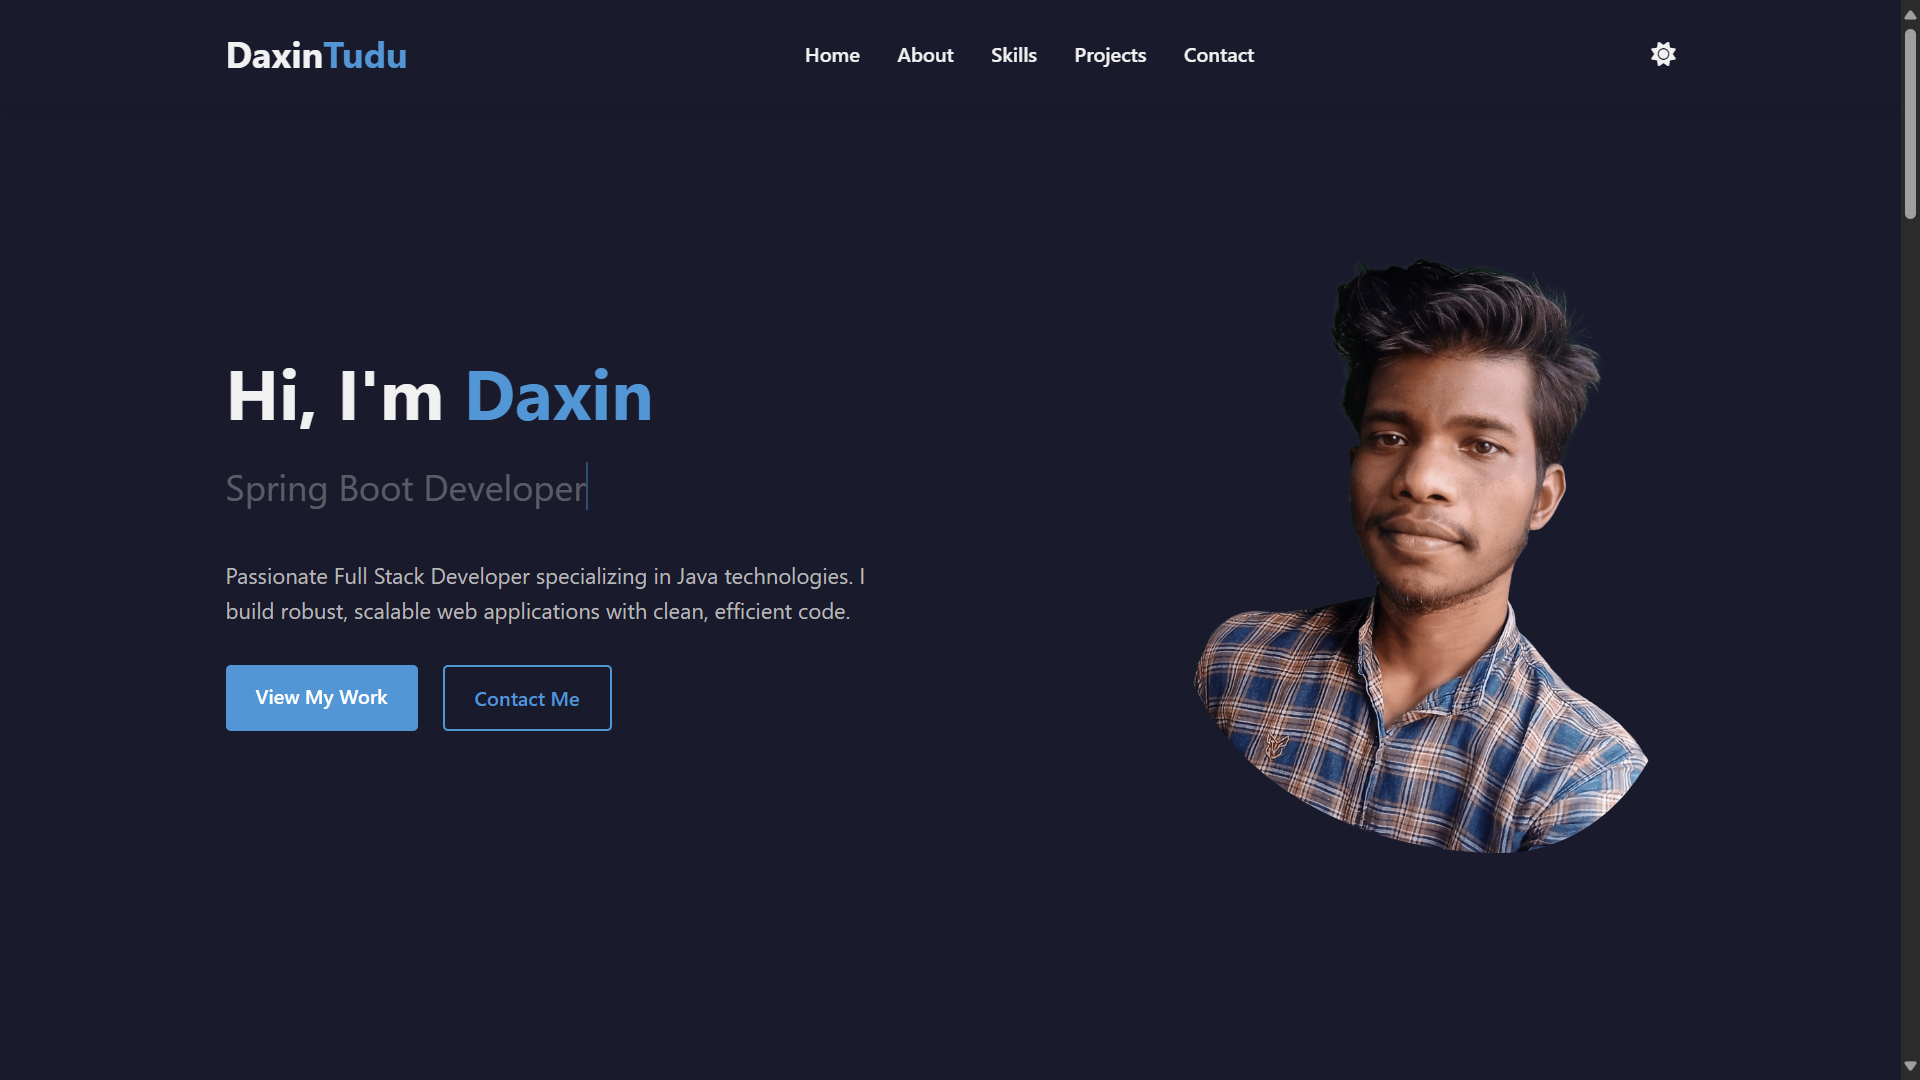
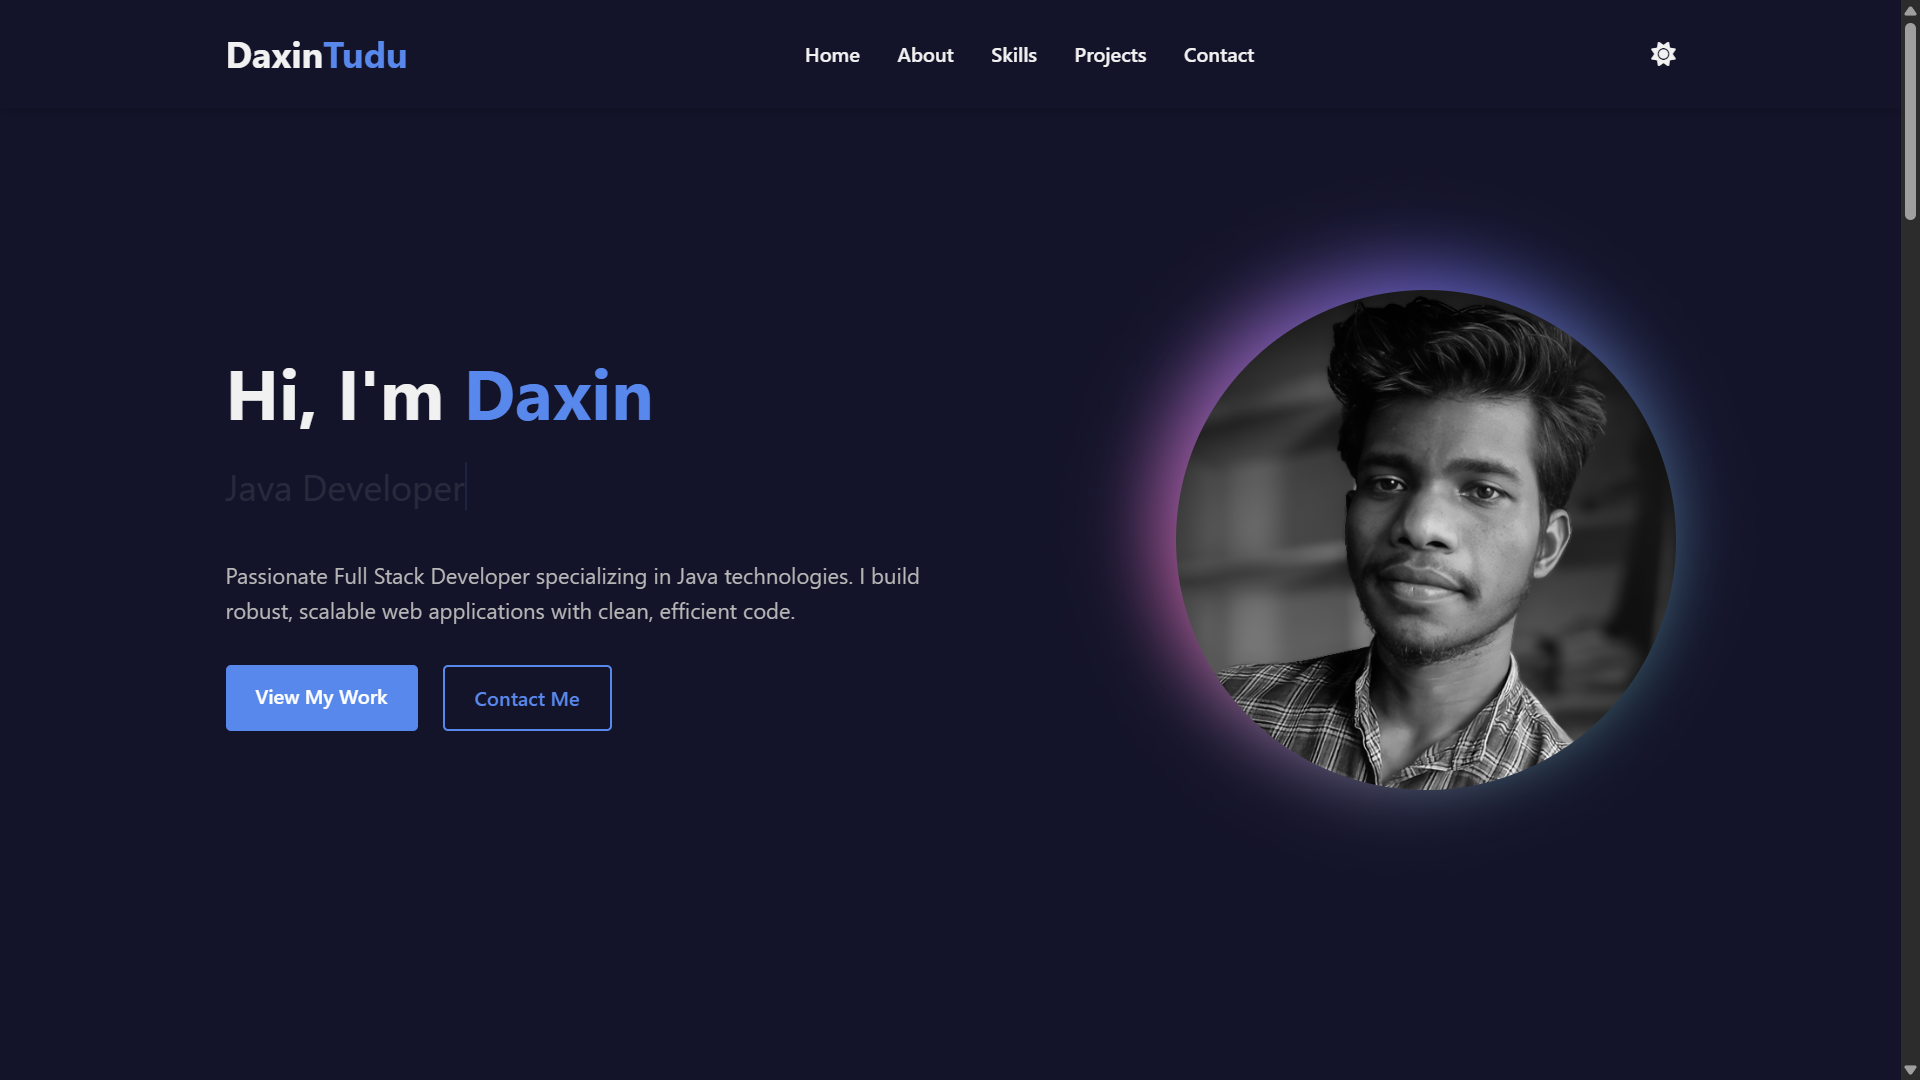
image glowing issue resolved

diff --git a/src/css/styles.css b/src/css/styles.css
@@ -46,9 +46,11 @@ body {
 
 .container {
     width: 100%;
-    max-width: 1200px;
+    max-width: 100px;
     margin: 0 auto;
     padding: 0 20px;
+    overflow-x: hidden;
+
 }
 
 section {
@@ -215,9 +217,13 @@ section {
 /* Hero Section */
 .hero {
     height: 100vh;
+    width: 100%;
     display: flex;
     align-items: center;
     padding-top: 80px;
+    position: relative;
+    z-index: -1;
+    overflow: hidden;
 }
 
 .container {
@@ -225,6 +231,7 @@ section {
     max-width: 1200px;
     margin: 0 auto;
     padding: 0 20px;
+    overflow: visible;
 }
 
 .hero-content {
@@ -232,6 +239,8 @@ section {
     align-items: center;
     gap: 50px;
     width: 100%;
+    padding: 60px 0;
+
 }
 
 .hero-text {
@@ -246,30 +255,18 @@ section {
     margin: 40px auto;
     display: flex;
     align-items: center;
-    justify-content: center;
+    justify-content: center; 
 }
 
-
-.profile-img {
-    width: 100%;
-    height: 100%;
-    border-radius: 50%;
-    object-fit: cover;
-    display: block;
-    position: relative;
-    z-index: 1;
-    /* box-shadow: 0 0 0 8px rgba(255,255,255,0.04); */
-    background: #fff; /* fallback for transparent images */
-}
 
 /* Animated gradient glow ring */
 .hero-image::before {
     content: "";
     position: absolute;
-    top: -15px;
-    left: -15px;
-    width: 101%;
-    height: 101%;
+    /* top: -15px; */
+    /* left: 0px; */
+    width: 100%;
+    height: 100%;
     border-radius: 50%;
     background: conic-gradient(
         from 0deg,
@@ -278,7 +275,7 @@ section {
         #4fd1c5,
         #ff6ec4
     );
-    z-index: -1;
+    z-index: 1;
     animation: rotateGlow 6s linear infinite;
     filter: blur(30px);
     opacity: 0.8;
@@ -292,7 +289,9 @@ section {
     object-fit: cover;
     display: block;
     position: relative;
-    z-index: 1;
+    z-index: 20;
+    /* box-shadow: 0 0 0 8px rgba(255,255,255,0.04); */
+    background: #fff; /* fallback for transparent images */
 }
 
 .hero-title {
@@ -895,15 +894,15 @@ section {
     }
     
     .profile-img {
-        max-width: 350px;
+        max-width: 100%;
     }
    .hero-image {
         max-width: 100%;
          aspect-ratio: 1 / 1;
     }
     .hero-image::before {
-        width: 100%;
-        height: 100%;
+        width: 90%;
+        height: 90%;
         filter: blur(18px);
     }
 }
@@ -924,12 +923,12 @@ section {
     
     .profile-img {
         max-width: 100%;
-            aspect-ratio: 1 / 1;
+        aspect-ratio: 1 / 1;
         
     }
     .hero-image::before {
-        width: 105%;
-        height: 105%;
+        width: 100%;
+        height: 100%;
         filter: blur(20px);
     }
         
@@ -943,8 +942,8 @@ section {
         aspect-ratio: 1 / 1;
     }
     .hero-image::before {
-        width: 105%;
-        height: 105%;
+        width: 100%;
+        height: 100%;
         filter: blur(20px);
     }
     
